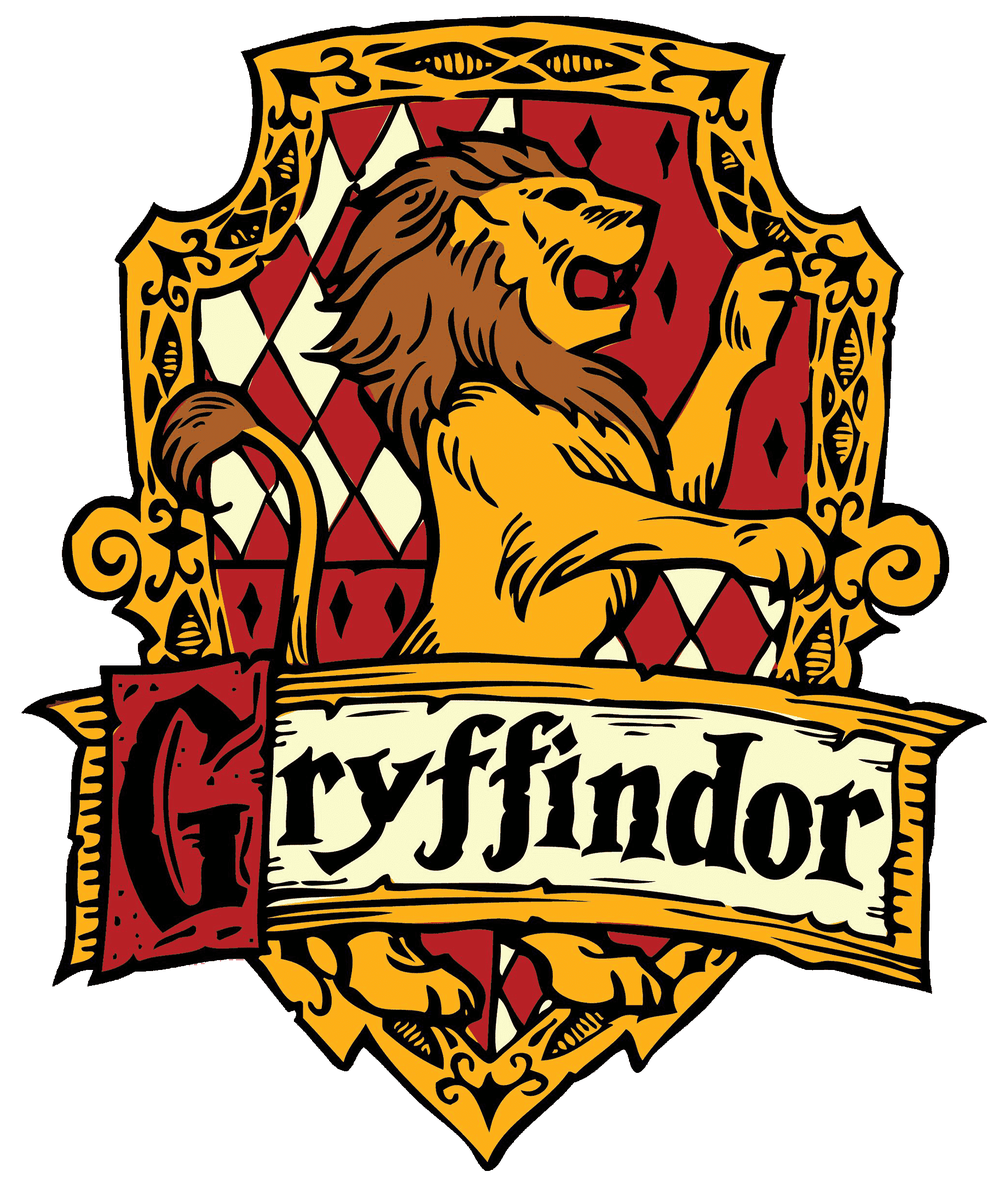
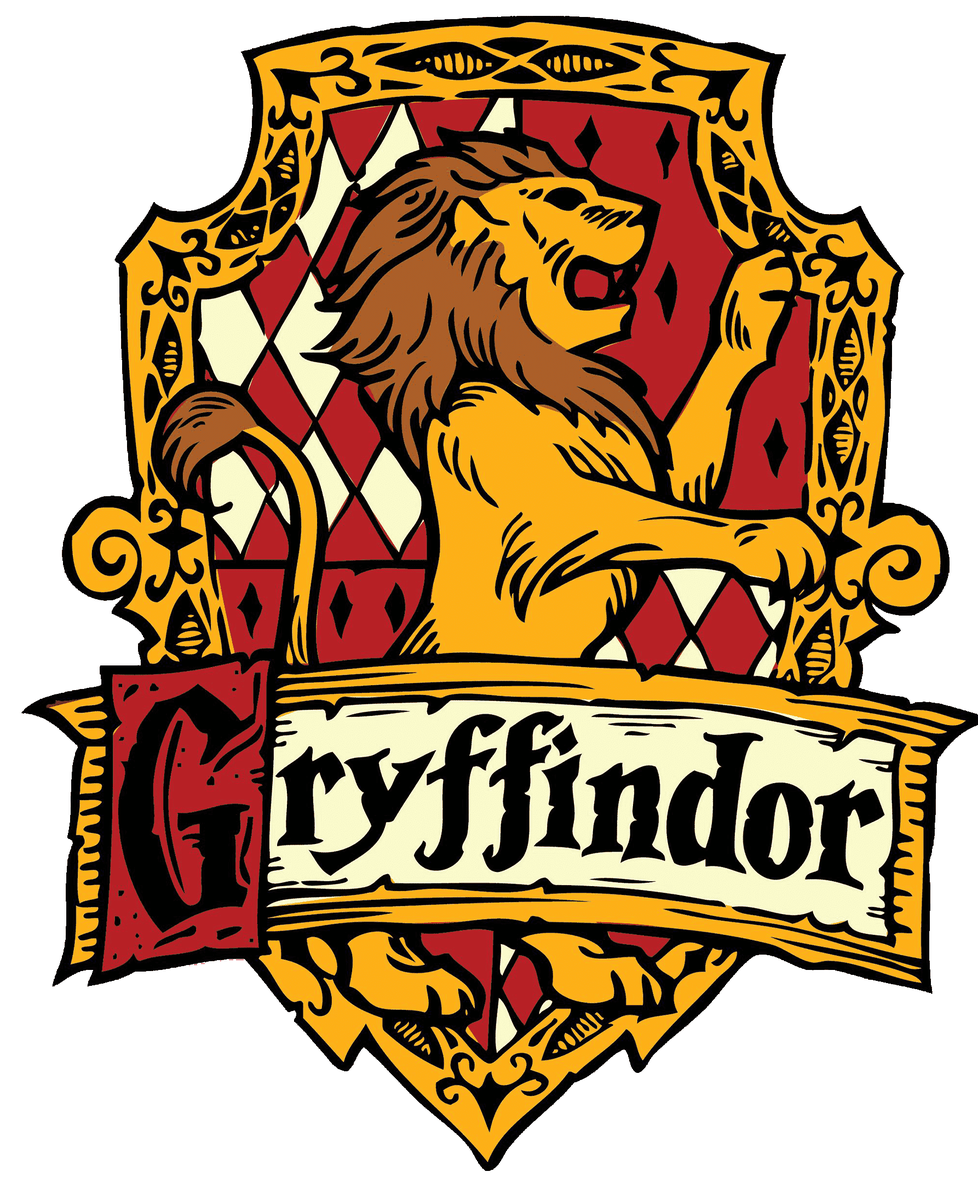
ajout du menu déroulant avec les blasons et transitions et backgrounds de couleurs différentes

diff --git a/Poudlard/templates/Poudlard/gryffondor.html b/Poudlard/templates/Poudlard/gryffondor.html
@@ -4,9 +4,22 @@
 {% block maison %}
 <body class="gryffondor_page">
     <div class="page-header_gryffondor">
-        <a href="/">
+        <div class="imageMenu">
+        <a href="/gryffondor">
             <img class="imageBlasonMaison" src="{% static 'media/blason_gryffondor.png' %}" alt='Blason Gryffondor'/>
-        </a> 
+        </a>
+        <div class="dropdownMenu">
+            <div class="serpentard">
+                <a href="/serpentard"><img class="menuImage" src="{% static 'media/blason_serpentard.png' %}" alt="Serpentard"></a>
+            </div>
+            <div class="serdaigle">
+                <a href="/serdaigle"><img class="menuImage" src="{% static 'media/blason_serdaigle.png' %}" alt="Serdaigle"></a>
+            </div>
+            <div class="poufsouffle">
+                <a href="/poufsouffle"><img class="menuImage" src="{% static 'media/blason_poufsouffle.png' %}" alt="Poufsouffle"></a>
+            </div>
+            </div>
+        </div>
         <h1><a href="/">Poudlard</a></h1>
         <a href="/carte_du_maraudeur">
             <img class="imageCarteDuMaraudeur" src="{% static 'media/logo_carte_du_maraudeur.jpg' %}" alt='Carte du Maraudeur'/>

diff --git a/Poudlard/static/css/Poudlard.css b/Poudlard/static/css/Poudlard.css
@@ -158,6 +158,58 @@ h4 {
     margin-right: 40px;
 }
 
+.imageMenu {
+    position: relative;
+    display: inline-block;
+}
+
+.imageMenu img:not(.menuImage) {
+    transition: transform 0.8s ease-in-out;
+}
+
+.imageMenu img.menuImage {
+    transition: transform 0.3s ease-in-out;
+}
+
+.imageMenu img.menuImage:hover {
+    transform: scale(1.1);
+}
+
+.imageMenu img:not(.menuImage):hover {
+    transform: scale(1.1);
+}
+
+.imageMenu:hover img:not(.menuImage){
+    transform: rotate(360deg);
+}
+
+.dropdownMenu {
+    display: none;
+    position: absolute;
+    left: 40px;
+    background-color: #740001;
+    min-width: 160px;
+    box-shadow: 0px 8px 16px 0px rgba(0,0,0,0.2);
+    z-index: 1;
+    text-align: center;
+}
+
+.dropdownMenu .serpentard {
+    background-color: #206137;
+}
+
+.dropdownMenu .serdaigle {
+    background-color: #14308b;
+}
+
+.dropdownMenu .poufsouffle {
+    background-color: #e4a915;
+}
+
+.imageMenu:hover .dropdownMenu {
+    display: block;
+}
+
 .gryffondor_page {
     background-image: url('../media/salle_commune_gryffondor.jpg');
     background-color: #740001;
